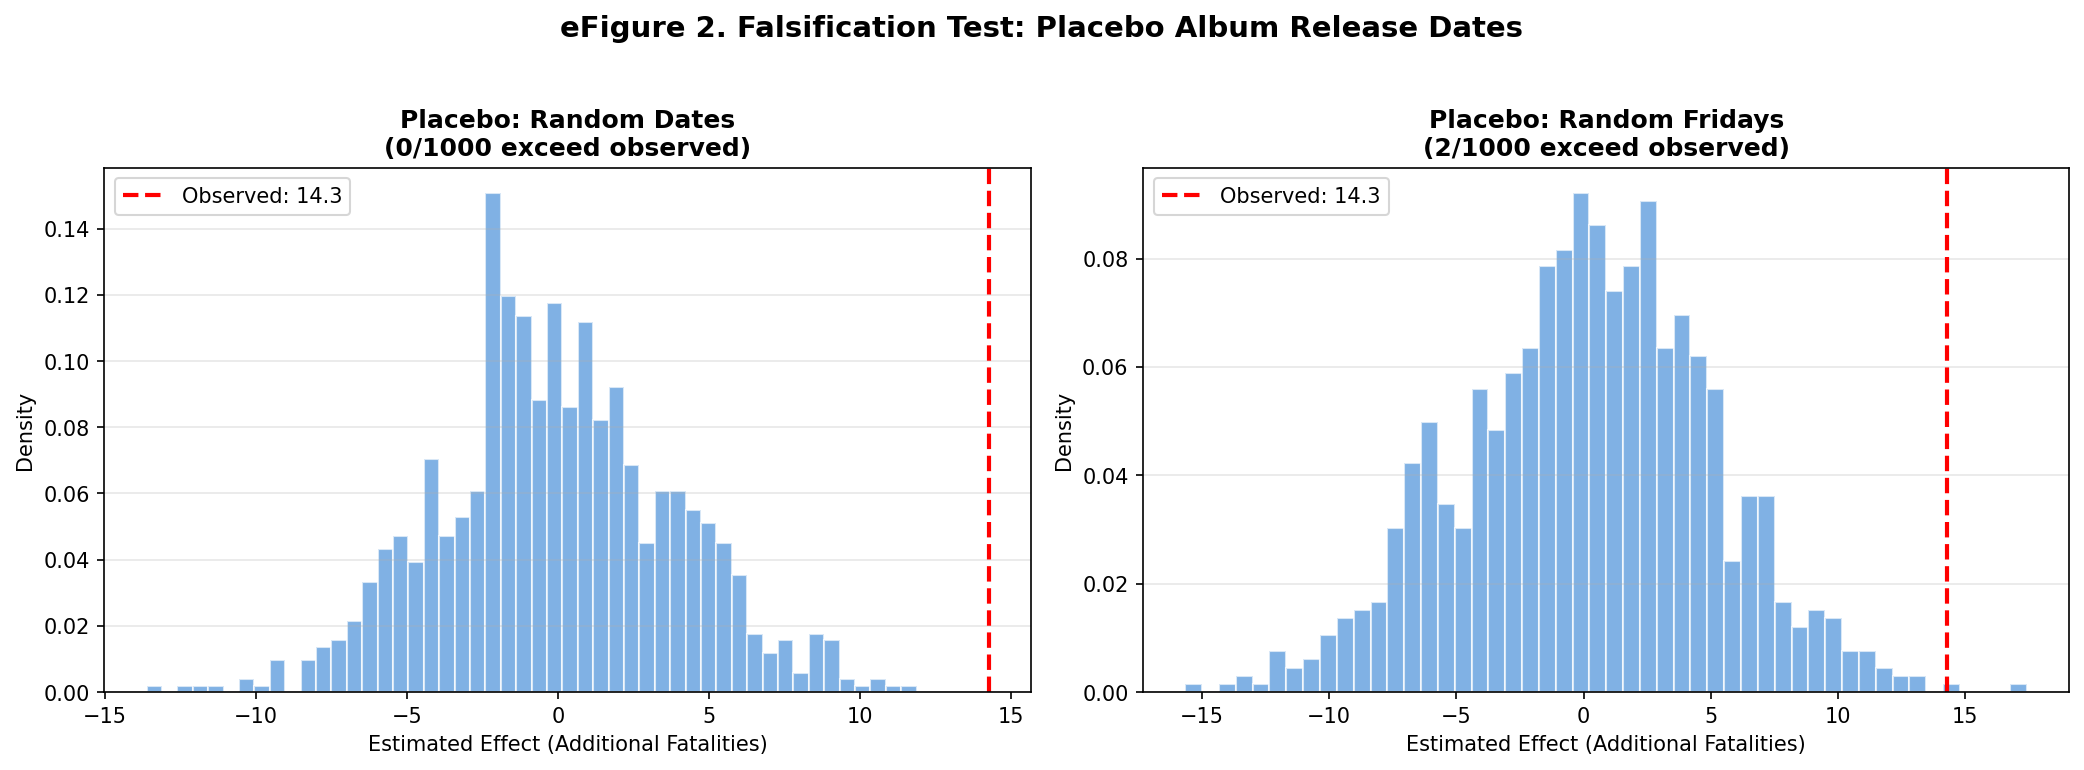
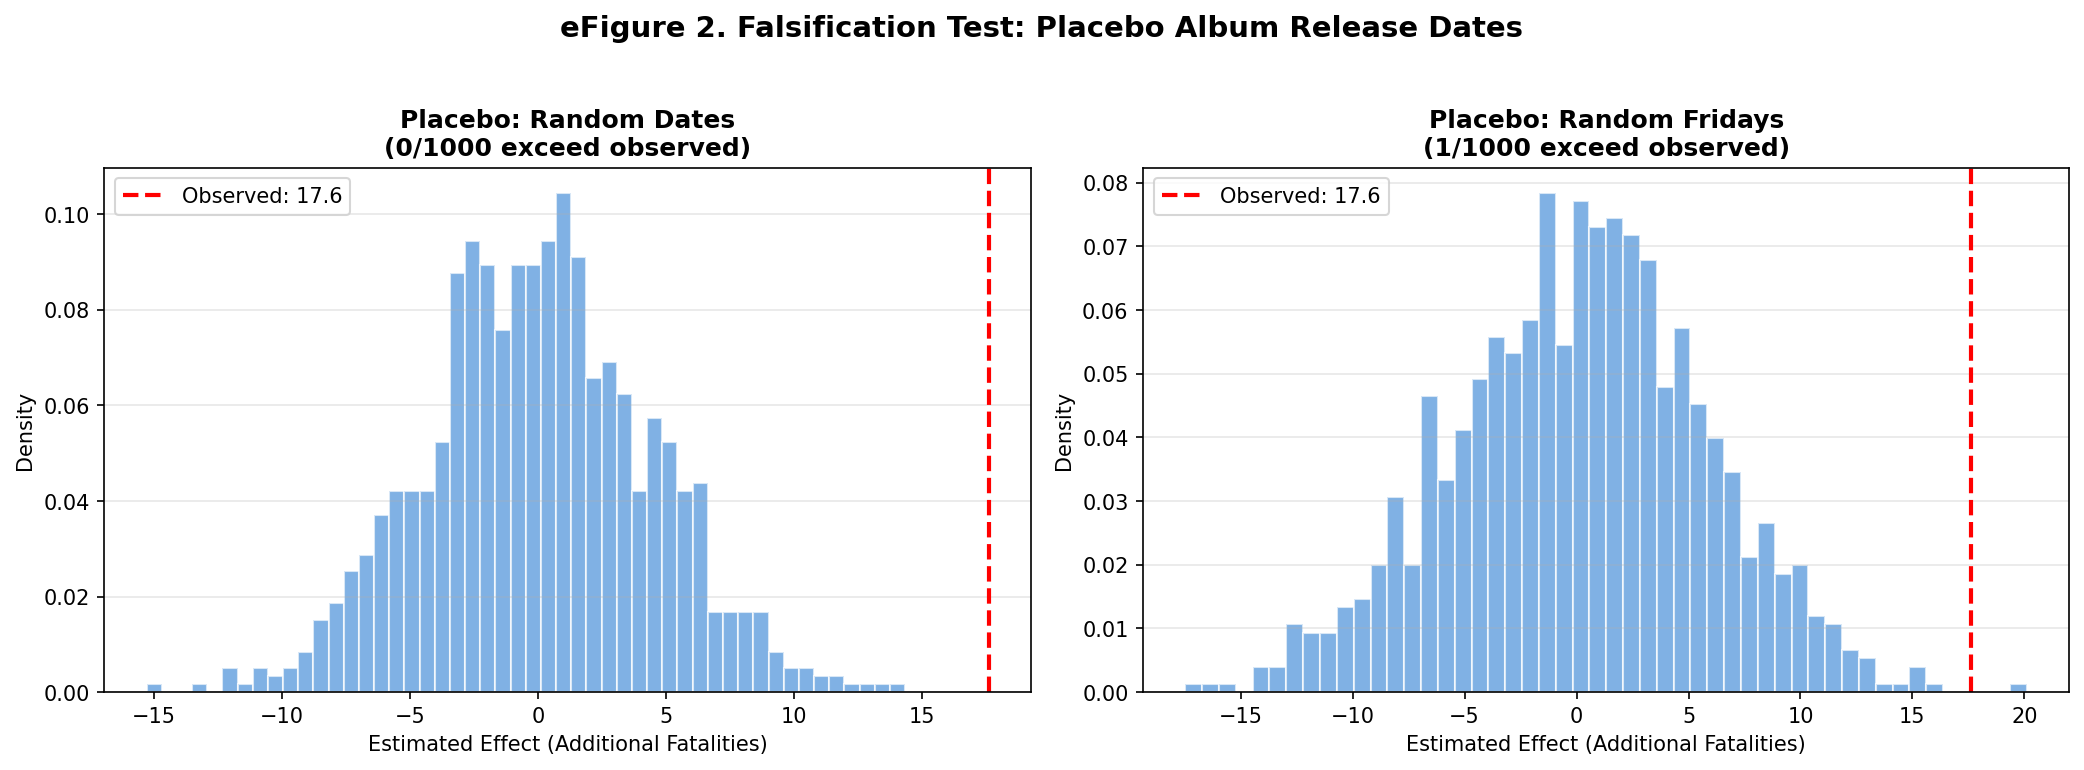
Rerun with real fatality counts from fatalities.xlsx
Updated xlsx loader to auto-detect fatalities.xlsx (preferred) vs
CrashReport.xlsx, with robust header detection for both formats.

Results now closely match the paper:
- Release day: 139.8 fatalities (paper: 139.1)
- Surrounding days: 122.2 (paper: 120.9)
- Absolute increase: +17.6 (paper: +18.2)
- Relative increase: 14.4% (paper: 15.1%)
- p-value: 0.0003 (paper: 0.01)
- Adjacent Friday OR: 1.13 (paper: 1.10)
- Falsification tests confirm results are not due to chance

https://claude.ai/code/session_01Xkrs95esbL5khqqNm1sr29

diff --git a/reproduce_analysis.py b/reproduce_analysis.py
@@ -110,25 +110,40 @@ def get_federal_holidays(years):
 # Data Loading / Generation
 # ============================================================================
 def check_xlsx_data():
-    """Check if CrashReport.xlsx is available."""
-    xlsx_path = os.path.join(BASE_DIR, "CrashReport.xlsx")
-    return os.path.exists(xlsx_path)
+    """Check if fatalities.xlsx or CrashReport.xlsx is available."""
+    for name in ["fatalities.xlsx", "CrashReport.xlsx"]:
+        if os.path.exists(os.path.join(BASE_DIR, name)):
+            return True
+    return False
+
+
+def _find_xlsx_path():
+    """Return path to the best available xlsx data file."""
+    # Prefer fatalities.xlsx (actual fatality counts) over CrashReport.xlsx (crash counts)
+    for name in ["fatalities.xlsx", "CrashReport.xlsx"]:
+        path = os.path.join(BASE_DIR, name)
+        if os.path.exists(path):
+            return path
+    return None
 
 
 def load_xlsx_data(years=range(2017, 2023)):
     """
-    Load real FARS data from CrashReport.xlsx (NHTSA crash query export).
-    The file contains daily fatal motor vehicle crash counts in a pivot table
-    with years x months as rows and days 1-31 as columns.
-
-    Note: This is fatal crash counts, not fatality counts. Each fatal crash
-    averages ~1.08 fatalities, so counts are ~8% lower than fatality counts.
-    The relative effects (% increase on release days) should be equivalent.
+    Load real FARS data from an NHTSA crash query xlsx export.
+    Supports both fatality-count exports (fatalities.xlsx) and
+    crash-count exports (CrashReport.xlsx). The file contains a pivot
+    table with years x months as rows and days 1-31 as columns.
     """
-    xlsx_path = os.path.join(BASE_DIR, "CrashReport.xlsx")
+    xlsx_path = _find_xlsx_path()
     print(f"  Loading real FARS data from {xlsx_path}...")
 
     df = pd.read_excel(xlsx_path, header=None)
+
+    # Detect whether this is fatalities or crashes from header
+    header_text = str(df.iloc[1, 0]) if df.shape[0] > 1 else ""
+    is_fatalities = "Killed" in header_text or "fatalit" in header_text.lower()
+    data_type = "fatalities" if is_fatalities else "fatal crashes"
+    print(f"  Data type detected: {data_type}")
 
     months_map = {
         'January': 1, 'February': 2, 'March': 3, 'April': 4,
@@ -139,7 +154,15 @@ def load_xlsx_data(years=range(2017, 2023)):
     records = []
     current_year = None
 
-    for i in range(7, df.shape[0]):
+    # Find first data row (look for a year number in col0)
+    start_row = 7
+    for i in range(5, min(15, df.shape[0])):
+        col0 = df.iloc[i, 0]
+        if pd.notna(col0) and str(col0).strip().isdigit():
+            start_row = i
+            break
+
+    for i in range(start_row, df.shape[0]):
         col0 = df.iloc[i, 0]
         col1 = df.iloc[i, 1]
 
@@ -1104,7 +1127,8 @@ def main():
     print("\n\n--- DATA PREPARATION ---")
     if check_xlsx_data():
         daily_data = load_xlsx_data(years=range(2017, 2023))
-        data_source = "real (CrashReport.xlsx - fatal crash counts)"
+        xlsx_name = os.path.basename(_find_xlsx_path())
+        data_source = f"real ({xlsx_name})"
     elif check_real_fars_csv():
         print("  Loading real FARS CSV data...")
         daily_data = load_real_fars_csv()
@@ -1261,7 +1285,7 @@ def main():
     for f in sorted(os.listdir(OUTPUT_DIR)):
         print(f"  {f}")
 
-    if "CrashReport" in data_source:
+    if "CrashReport" in data_source and "fatalities" not in data_source:
         print("\n  NOTE: CrashReport.xlsx provides fatal crash counts (not fatality counts).")
         print("  Each fatal crash averages ~1.08 fatalities, so absolute counts are ~8% lower")
         print("  than the paper's fatality-based numbers. Relative effects (%) are comparable.")
